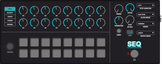
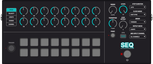
Tweak layout spacing and sizes

diff --git a/lv2/dm-Seq.lv2/modgui/stylesheet-dm-seq.css b/lv2/dm-Seq.lv2/modgui/stylesheet-dm-seq.css
@@ -30,12 +30,12 @@
     gap: 8px;
 }
 
-.mod-pedal{{{cns}}} .gap-16 {
-    gap: 16px;
+.mod-pedal{{{cns}}} .gap-12 {
+    gap: 12px;
 }
 
-.mod-pedal{{{cns}}} .gap-24 {
-    gap: 24px;
+.mod-pedal{{{cns}}} .gap-16 {
+    gap: 16px;
 }
 
 .mod-pedal{{{cns}}} .space-before-grid {
@@ -58,12 +58,16 @@
     flex: 1;
     align-items: center;
     justify-content: space-between;
-    padding: 16px;
     border-right: 2px solid #797979;
 }
 
 .mod-pedal{{{cns}}} .knobs {
     border-bottom: 2px solid #797979;
+    padding: 24px 16px 16px;
+}
+
+.mod-pedal{{{cns}}} .gates {
+    padding: 16px 16px 24px;
 }
 
 .mod-pedal{{{cns}}} .global-controls {
@@ -101,6 +105,10 @@
     line-height: 18px;
 }
 
+.mod-pedal{{{cns}}} .knobs .mod-knob-value {
+    font-weight: 600 !important;
+}
+
 /* = CONTAINER
 ================================================ */
 .mod-pedal{{{cns}}} {
@@ -108,7 +116,7 @@
     display: flex;
     flex-direction: column;
     width: 1154px;
-    height: 462px;
+    height: 496px;
     border-radius: 8px;
     padding: 8px;
 }
@@ -157,16 +165,15 @@
 }
 
 .mod-pedal{{{cns}}} .mod-knob .mod-knob-value {
-    position: absolute;
-    bottom: -14px;
-    left: 50%;
-    font-size: 11px;
-    font-weight: 600;
-    transform: translate(-50%, 0%);
+    margin: 0 auto;
+    font-size: 10px;
+    line-height: 10px;
+    font-weight: 500;
     color: #ECECEC;
     pointer-events: none;
     width: 56px;
     text-align: center;
+    margin-top: 1px;
 }
 
 /* = FOOTSWITCH
@@ -179,7 +186,7 @@
     background-size:auto 128px;
     cursor:pointer;
     height:64px;
-    width: 64px;
+    width:64px;
 }
 .mod-pedal{{{cns}}} .mod-footswitch.on {
     background-position: top center !important;
@@ -199,8 +206,9 @@
 .mod-pedal{{{cns}}} .mod-footswitch.on > .mod-light {
     background-position-y: top !important;
 }
-.mod-pedal{{{cns}}} .footswitches .mod-param-title {
-    margin-top: 8px;
+.mod-pedal{{{cns}}} .mod-footswitch + .mod-param-title {
+    margin-top: 4px;
+    margin-bottom: 0px;
 }
 .mod-pedal{{{cns}}} .mod-footswitch.bypass.on > .mod-light {
     background-position-y: bottom !important;
@@ -215,8 +223,10 @@
     background-position-y: top !important;
 }
 .mod-pedal{{{cns}}} .mod-footswitch.panic {
-    margin-top: -12px;
-    transform: scale(0.6);
+    background-image:url(/resources/assets/button.png{{{ns}}});
+    background-size:auto 80px;
+    height:40px;
+    width:40px;
 }
 
 /* = TOGGLE
@@ -247,10 +257,6 @@
 
 /* = NUMBER INPUT
 ================================================ */
-.mod-pedal{{{cns}}} .mod-number-input {
-    padding: 4px 0px;
-}
-
 .mod-pedal{{{cns}}} .mod-number-input .mod-number-input-image {
     background-image:url(/resources/assets/number-input.png{{{ns}}});
     background-repeat:no-repeat;

diff --git a/lv2/dm-Seq.lv2/modgui/icon-dm-seq.html b/lv2/dm-Seq.lv2/modgui/icon-dm-seq.html
@@ -49,7 +49,7 @@
             </div>
           </div>
         </div>
-        <div id="notes" class="column gap-24">
+        <div id="notes" class="column gap-8">
           <div class="row gap-16">
             <div class="mod-knob">
               <div
@@ -263,7 +263,7 @@
             </div>
           </div>
         </div>
-        <div id="velocities" class="column gap-24 hide">
+        <div id="velocities" class="column gap-8 hide">
           <div class="row gap-16">
             <div class="mod-knob">
               <div
@@ -477,7 +477,7 @@
             </div>
           </div>
         </div>
-        <div id="note-lengths" class="column gap-24 hide">
+        <div id="note-lengths" class="column gap-8 hide">
           <div class="row gap-16">
             <div class="mod-knob">
               <div
@@ -691,7 +691,7 @@
             </div>
           </div>
         </div>
-        <div id="chances" class="column gap-24 hide">
+        <div id="chances" class="column gap-8 hide">
           <div class="row gap-16">
             <div class="mod-knob">
               <div
@@ -905,7 +905,7 @@
             </div>
           </div>
         </div>
-        <div id="channels" class="column gap-24 hide">
+        <div id="channels" class="column gap-8 hide">
           <div class="row gap-16">
             <div class="mod-knob">
               <div
@@ -1257,7 +1257,7 @@
     </div>
     <div class="column global-controls">
       <div class="row gap-16">
-        <div class="column gap-24 align-self-center">
+        <div class="column gap-12 align-self-center">
           <div class="mod-knob">
             <div class="mod-param-title">SWING</div>
             <div
@@ -1286,7 +1286,7 @@
               mod-port-symbol="transpose"
             ></div>
           </div>
-          <div>
+          <div class="colum align-self-center">
             <div class="mod-param-title">PANIC</div>
             <div
               class="mod-footswitch panic"
@@ -1297,7 +1297,7 @@
             </div>
           </div>
         </div>
-        <div class="column gap-24 align-self-center">
+        <div class="column gap-12 align-self-center">
           <div class="mod-knob">
             <div class="mod-param-title">STEPS</div>
             <div
@@ -1335,7 +1335,7 @@
             ></div>
           </div>
         </div>
-        <div class="column gap-8">
+        <div class="column gap-12">
           <div class="mod-enumerated-group-container">
             {{#controls.5}}
             <div class="mod-param-title">{{name}}</div>
